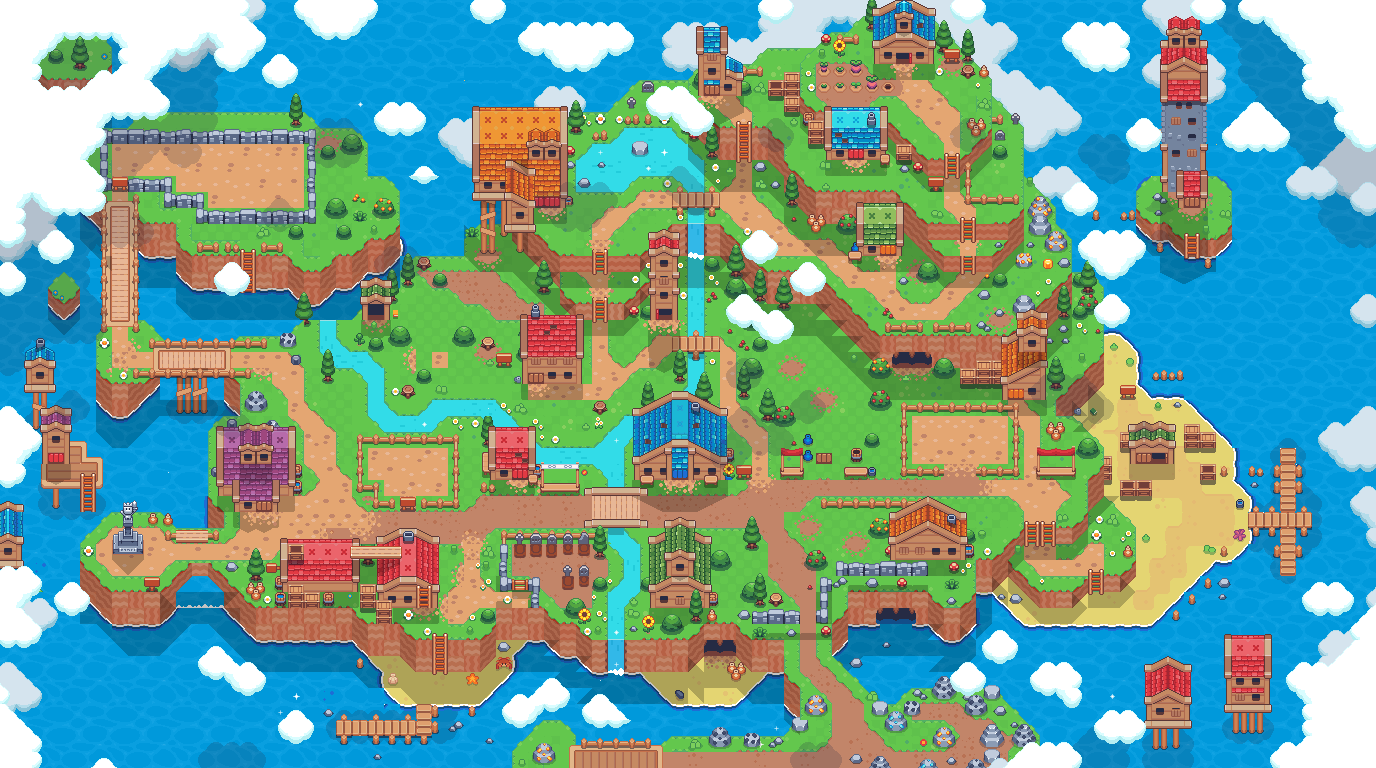
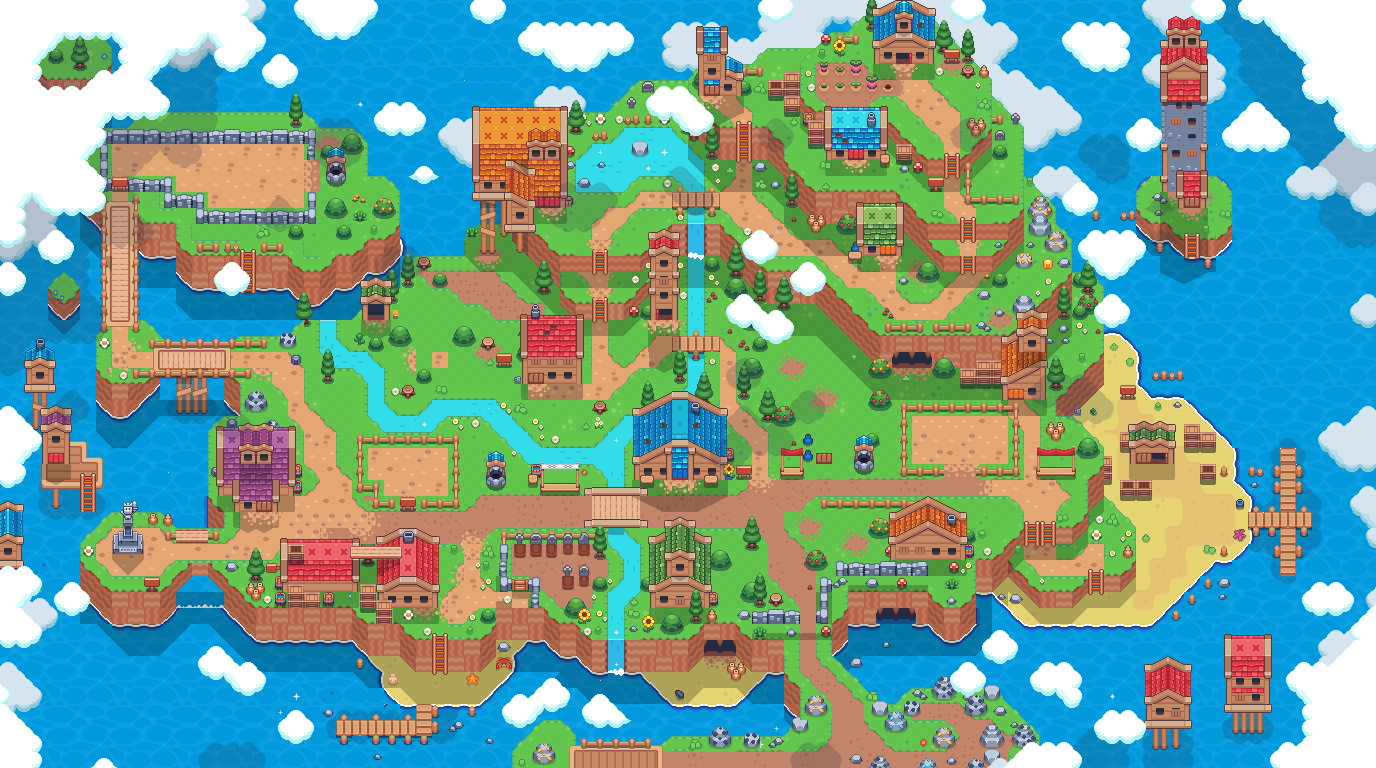
docs: Update READ.ME

diff --git a/README.md b/README.md
@@ -4,9 +4,102 @@
   <img src="public/assets/mainmenu/logo_quinta_cabacos.png" alt="Logo Quinta Cabacos" width="560">
 </p>
 
-**Quinta Cabacos** é um jogo 2D em pixel art desenvolvido em **Phaser 3**, **TypeScript** e **Vite**. O projeto simula uma pequena quinta onde o jogador pode explorar o mapa, entrar em edifícios, gerir inventário, comprar sementes e cultivar plantações.
+**Quinta Cabacos** e um jogo 2D top-down em pixel art desenvolvido em **Phaser 3**, **TypeScript** e **Vite**. O jogador gere uma pequena quinta, compra sementes e ferramentas, cultiva plantas, vende colheitas, compra novos terrenos e completa quests para ganhar dinheiro.
 
-O jogo foi desenvolvido como projeto académico, com foco numa implementação simples, legível e fácil de apresentar.
+O projeto foi desenvolvido para a unidade curricular de Tecnologias Multimedia 2025/2026, com uma estrutura simples, modular e facil de apresentar.
+
+## Grupo
+
+| Elemento | Numero de aluno | GitHub |
+|---|---|---|
+| Cristiano Fonseca | 29725  | [m1guelfonseca](https://github.com/m1guelfonseca) |
+| Goncalo Sousa | 29726 | [goncalojbsousa](https://github.com/goncalojbsousa) |
+
+> Antes da entrega final no Moodle, preencher os numeros de aluno e criar a tag `1.0` no commit entregue.
+
+## Tecnologias
+
+| Tecnologia | Uso |
+|---|---|
+| **Phaser 3.90.0** | Motor 2D do jogo, incluido via npm |
+| **TypeScript** | Codigo principal do jogo, com tipagem para facilitar manutencao |
+| **Vite 6.3.1** | Servidor local e build do projeto |
+| **Tiled** | Criacao do mapa principal, interiores, colisoes e zonas de interacao |
+| **HTML/CSS** | Estrutura base da pagina onde o jogo corre |
+
+## Descricao do Jogo
+
+O jogo segue uma logica de **farm simulator** em 2D. O objetivo e evoluir a quinta atraves de ciclos de cultivo e economia:
+
+- comprar sementes na loja;
+- preparar terreno com a enxada;
+- plantar e regar culturas;
+- esperar pelo crescimento ao longo dos dias;
+- colher e vender no mercado;
+- comprar ferramentas e novos terrenos;
+- ativar e completar quests no Crop Market.
+
+O estado do jogo e apresentado no HUD: dinheiro, dia/hora, energia, agua do regador, inventario/hotbar e quest ativa.
+
+## Regras e Sistemas Implementados
+
+### Cultivo
+
+- O jogador so pode plantar em terreno preparado.
+- A enxada prepara o solo.
+- As sementes ocupam slots do inventario/hotbar.
+- As plantas precisam de agua para crescer.
+- Cada cultura tem tempos de crescimento proprios.
+- Quando a cultura esta pronta, aparece um indicador visual e pode ser colhida com a foice.
+
+### Energia, tempo e desmaio
+
+- Usar ferramentas, plantar, colher e regar consome energia.
+- O dia avanca com o tempo de jogo.
+- Se o jogador ficar ativo ate as 02:00, desmaia.
+- Ao desmaiar, perde parte do dinheiro, recupera energia parcialmente e volta para a quinta de manha.
+- Dormir em casa avanca para o dia seguinte e recupera energia.
+
+### Economia
+
+- O jogador comeca com dinheiro inicial.
+- Sementes e ferramentas podem ser compradas nas lojas.
+- Colheitas podem ser vendidas no Crop Market.
+- Terrenos extra podem ser comprados na camara municipal.
+
+### Quests
+
+As quests sao ativadas na tab **Quests** do Crop Market. Apenas uma quest pode estar ativa de cada vez.
+
+Quests atuais:
+
+| Quest | Objetivo | Recompensa |
+|---|---|---|
+| Plantar Aboboras | Plantar 3 aboboras | 75 $ |
+| Vender Cenouras | Vender 3 cenouras no Crop Market | 60 $ |
+| Regar Plantas | Regar qualquer tipo de planta 10 vezes | 50 $ |
+
+Quando uma quest fica completa, o jogador deve voltar ao Crop Market e clicar em **Concluir** para receber a recompensa.
+
+### Inventario e save
+
+- Hotbar com 8 slots.
+- Inventario extra com drag and drop entre slots.
+- Sistema de save em 3 slots.
+- O save guarda inventario, dinheiro, tempo, energia, agua do regador, terrenos comprados, plantas/solo e progresso das quests.
+
+## Controlos
+
+| Tecla / Acao | Funcao |
+|---|---|
+| `W`, `A`, `S`, `D` | Mover o jogador |
+| Setas direcionais | Mover o jogador |
+| `E` | Interagir com edificios, lojas, cama, mercado, poco e saidas |
+| `I` | Abrir ou fechar o inventario |
+| `ESC` | Abrir menu de pausa ou fechar paineis |
+| `1` a `8` | Selecionar slot da hotbar |
+| Clique esquerdo | Usar item selecionado no terreno |
+| Arrastar com o rato | Mover itens entre inventario e hotbar |
 
 ## Imagens do Projeto
 
@@ -14,7 +107,7 @@ O jogo foi desenvolvido como projeto académico, com foco numa implementação s
 
 ![Mapa principal](public/assets/docs/readme_map_preview.png)
 
-### Interiores dos Edifícios
+### Interiores dos Edificios
 
 <table>
   <tr>
@@ -33,90 +126,64 @@ O jogo foi desenvolvido como projeto académico, com foco numa implementação s
       <img src="public/assets/tilemap/seed_shop_sunnyside_style_384x288.png" alt="Interior da loja de sementes" width="260">
     </td>
     <td align="center">
-      <strong>Câmara municipal</strong><br>
-      <img src="public/assets/tilemap/town_hall_sem_fundo.png" alt="Interior da câmara municipal" width="260">
+      <strong>Camara municipal</strong><br>
+      <img src="public/assets/tilemap/town_hall_sem_fundo.png" alt="Interior da camara municipal" width="260">
     </td>
   </tr>
 </table>
 
-## Como Jogar
+## Aspectos Multimedia
 
-O jogador começa no mapa principal da quinta. A partir daí pode deslocar-se pelo mundo, interagir com edifícios e usar ferramentas ou sementes através da hotbar.
+O projeto usa recursos multimedia adequados ao estilo pixel art e ao carregamento no browser:
 
-Objetivo principal:
+| Tipo | Formato | Uso |
+|---|---|---|
+| Imagens | `.png` | Tilesets, interiores, UI, logo, ferramentas, culturas e jogador |
+| Mapas | `.tmj` | Mapas criados/editados no Tiled |
+| Sons | `.mp3` | Efeitos de interacao, compra, venda, ferramentas, rega, sono e feedback de erro |
+| Spritesheets | `.png` | Animacoes do jogador, ferramentas/culturas por frames e barra de energia |
 
-- Explorar a quinta.
-- Entrar nos edifícios disponíveis.
-- Comprar sementes na loja.
-- Preparar terreno com a pá.
-- Plantar sementes.
-- Acompanhar o crescimento das culturas ao longo dos dias.
+Resumo dos assets em `public/assets`:
 
-## Controlos
+- 47 ficheiros `.png`, cerca de 5.53 MB.
+- 17 ficheiros `.mp3`, cerca de 0.31 MB.
+- 6 ficheiros `.tmj`, cerca de 0.37 MB.
+- Total aproximado: 6.21 MB.
 
-| Tecla / Ação | Função |
-|---|---|
-| `W`, `A`, `S`, `D` | Mover o jogador |
-| Setas direcionais | Mover o jogador |
-| `E` | Interagir / entrar / sair / abrir loja |
-| `I` | Abrir ou fechar o inventário |
-| `ESC` | Pausar ou continuar o jogo |
-| `1` a `8` | Selecionar slot da hotbar |
-| Clique esquerdo | Usar item selecionado no terreno |
-| Arrastar com o rato | Mover itens entre slots do inventário/hotbar |
+Os mapas e interiores foram compostos no Tiled a partir dos tilesets incluidos no projeto. Os sprites e elementos de UI foram integrados em tamanhos proporcionais ao uso no jogo, evitando imagens demasiado grandes para elementos pequenos. Os sons estao em MP3 comprimido, em ficheiros curtos, para manter o carregamento leve.
 
-## Features
+## Suporte Multilingue
 
-- Menu inicial personalizado com logo e arte própria.
-- Sistema de idiomas em português e inglês.
-- Mapa principal criado no **Tiled**.
-- Colisões configuradas através de layers do Tiled.
-- Sistema de interações com objetos do Tiled.
-- Entrada e saída de edifícios:
-  - Casa do jogador.
-  - Mercado de colheitas.
-  - Loja de sementes.
-  - Câmara municipal.
-- Interiores independentes para edifícios.
-- Jogador com animações de idle e movimento.
-- Inventário com hotbar.
-- Arrastar itens entre slots.
-- Sistema de dinheiro.
-- Loja de sementes com compra de vários tipos de sementes.
-- Sistema de tempo com dias e horas.
-- Sistema de cultivo:
-  - Preparar terreno com a pá.
-  - Plantar sementes.
-  - Crescimento das culturas ao longo dos dias.
-- Assets em pixel art integrados no projeto.
+O jogo suporta **portugues** e **ingles**. O idioma pode ser alterado nas definicoes.
 
-## Tecnologias Utilizadas
+A estrutura de traducao esta centralizada em:
 
-- **Phaser 3**: motor principal do jogo.
-- **TypeScript**: linguagem usada no desenvolvimento.
-- **Vite**: servidor de desenvolvimento e build.
-- **Tiled**: criação dos mapas, colisões e interações.
-- **HTML/CSS**: estrutura base da página onde o jogo corre.
+```text
+src/game/services/LanguageService.ts
+```
+
+Isto evita strings duplicadas espalhadas pelo codigo e permite traduzir menus, HUD, lojas, quests, itens e mensagens de feedback.
 
 ## Estrutura do Projeto
 
-| Pasta / Ficheiro | Descrição |
+| Pasta / Ficheiro | Descricao |
 |---|---|
-| `src/game/main.ts` | Configuração principal do Phaser |
-| `src/game/scenes` | Scenes do jogo, menus e interiores |
+| `index.html` | Pagina base onde o jogo e montado |
+| `src/main.ts` | Entrada da aplicacao |
+| `src/game/main.ts` | Configuracao principal do Phaser e registo das scenes |
+| `src/game/scenes` | Menus, jogo principal, interiores, lojas e pausa |
+| `src/game/world` | Criacao do mapa principal e camara |
 | `src/game/objects` | Objetos principais, como o jogador |
-| `src/game/systems` | Sistemas de gameplay, como cultivo e entradas |
-| `src/game/ui` | Interface, inventário, hotbar e painéis |
-| `src/game/services` | Serviços de idioma, dinheiro, inventário e tempo |
-| `public/assets` | Imagens, sprites, tilesets e assets do jogo |
-| `public/assets/mainmenu` | Logo e arte do menu inicial |
-| `public/assets/farming` | Indicadores e elementos visuais de cultivo |
-| `public/assets/tilemap` | Mapas `.tmj`, tilesets e interiores |
-| `public/assets/ui` | Componentes comuns, HUD e elementos das lojas |
+| `src/game/systems` | Sistemas de gameplay: cultivo, entradas, regador |
+| `src/game/services` | Estado e servicos: dinheiro, inventario, tempo, saves, quests, idioma |
+| `src/game/ui` | HUD, inventario, lojas, paineis e displays |
+| `src/game/data` | Dados dos itens, sementes, ferramentas e culturas |
+| `public/assets` | Imagens, audio, tilesets, tilemaps e UI |
+| `docs` | Documentacao auxiliar |
 
-## Instalação e Execução
+## Como Executar
 
-Instalar dependências:
+Instalar dependencias:
 
 ```bash
 npm install
@@ -128,61 +195,64 @@ Executar em modo desenvolvimento:
 npm run dev
 ```
 
-O jogo fica disponível em:
+Ou sem logs do template Phaser:
+
+```bash
+npm run dev-nolog
+```
+
+O jogo fica disponivel em:
 
 ```text
 http://localhost:8080
 ```
 
-Gerar build de produção:
+Gerar build de producao:
 
 ```bash
 npm run build
 ```
 
-Também existem versões sem envio de logs do template Phaser:
+Build sem logs do template:
 
 ```bash
-npm run dev-nolog
 npm run build-nolog
 ```
 
-## Conventional Commits
+## Repositorio e Entrega
 
-Neste projeto usamos a convenção **Conventional Commits** para manter o histórico Git mais organizado e fácil de perceber.
+- O projeto Phaser esta na raiz do repositorio.
+- O projeto usa `.gitignore` para evitar versionar dependencias como `node_modules`.
+- Para a entrega final, criar a tag:
 
-Formato recomendado:
-
-```text
-tipo: descrição curta da alteração
+```bash
+git tag 1.0
+git push origin 1.0
 ```
 
-Exemplos:
+O ficheiro a entregar no Moodle deve incluir:
 
-```text
-feat: add seed shop interior
-fix: correct crop market image path
-docs: update project README
-style: adjust main menu logo position
-refactor: simplify building entrance system
-```
+- URL do repositorio GitHub;
+- commit hash da versao entregue;
+- nome e numero de cada elemento.
 
-Tipos mais usados:
+## Checklist do Enunciado
 
-| Tipo | Uso |
+| Requisito | Estado |
 |---|---|
-| `feat` | Nova funcionalidade |
-| `fix` | Correção de bug |
-| `docs` | Alterações de documentação |
-| `style` | Ajustes visuais ou formatação |
-| `refactor` | Reorganização de código sem mudar comportamento |
-| `chore` | Tarefas auxiliares do projeto |
+| Phaser 3 no browser | Implementado com Phaser 3.90.0 via npm |
+| Projeto na raiz do repositorio | Sim |
+| Grupo de 2 alunos | Sim, falta preencher numeros |
+| Suporte a 2 linguas | Portugues e ingles |
+| Pelo menos 1 som | Varios efeitos MP3 integrados |
+| Input claro | Teclado, rato, hotbar e drag and drop |
+| Estado de jogo visivel | Dinheiro, tempo, energia, agua, inventario e quests |
+| Interacoes/colisoes | Arcade Physics, tilemaps, zonas de interacao e colisao |
+| README completo | Atualizado segundo a secao 4.3 do enunciado |
+| Tag 1.0 | A criar na versao final |
 
-## Autores
+## Notas Conhecidas
 
-- Miguel Fonseca
-- Gonçalo Sousa
-
-## Notas
-
-Este projeto partiu de um template Phaser com Vite e foi adaptado para o jogo **Quinta Cabacos**, incluindo mapas próprios, assets personalizados, interiores, inventário, loja e sistema de cultivo.
+- A scene `GameOver` existe e esta registada, mas o ciclo principal atual usa o sistema de desmaio como penalizacao de fim de dia.
+- Os numeros de aluno devem ser adicionados antes da entrega final.
+- Caso sejam usados packs externos de arte/som, os respetivos creditos devem ser confirmados na apresentacao.